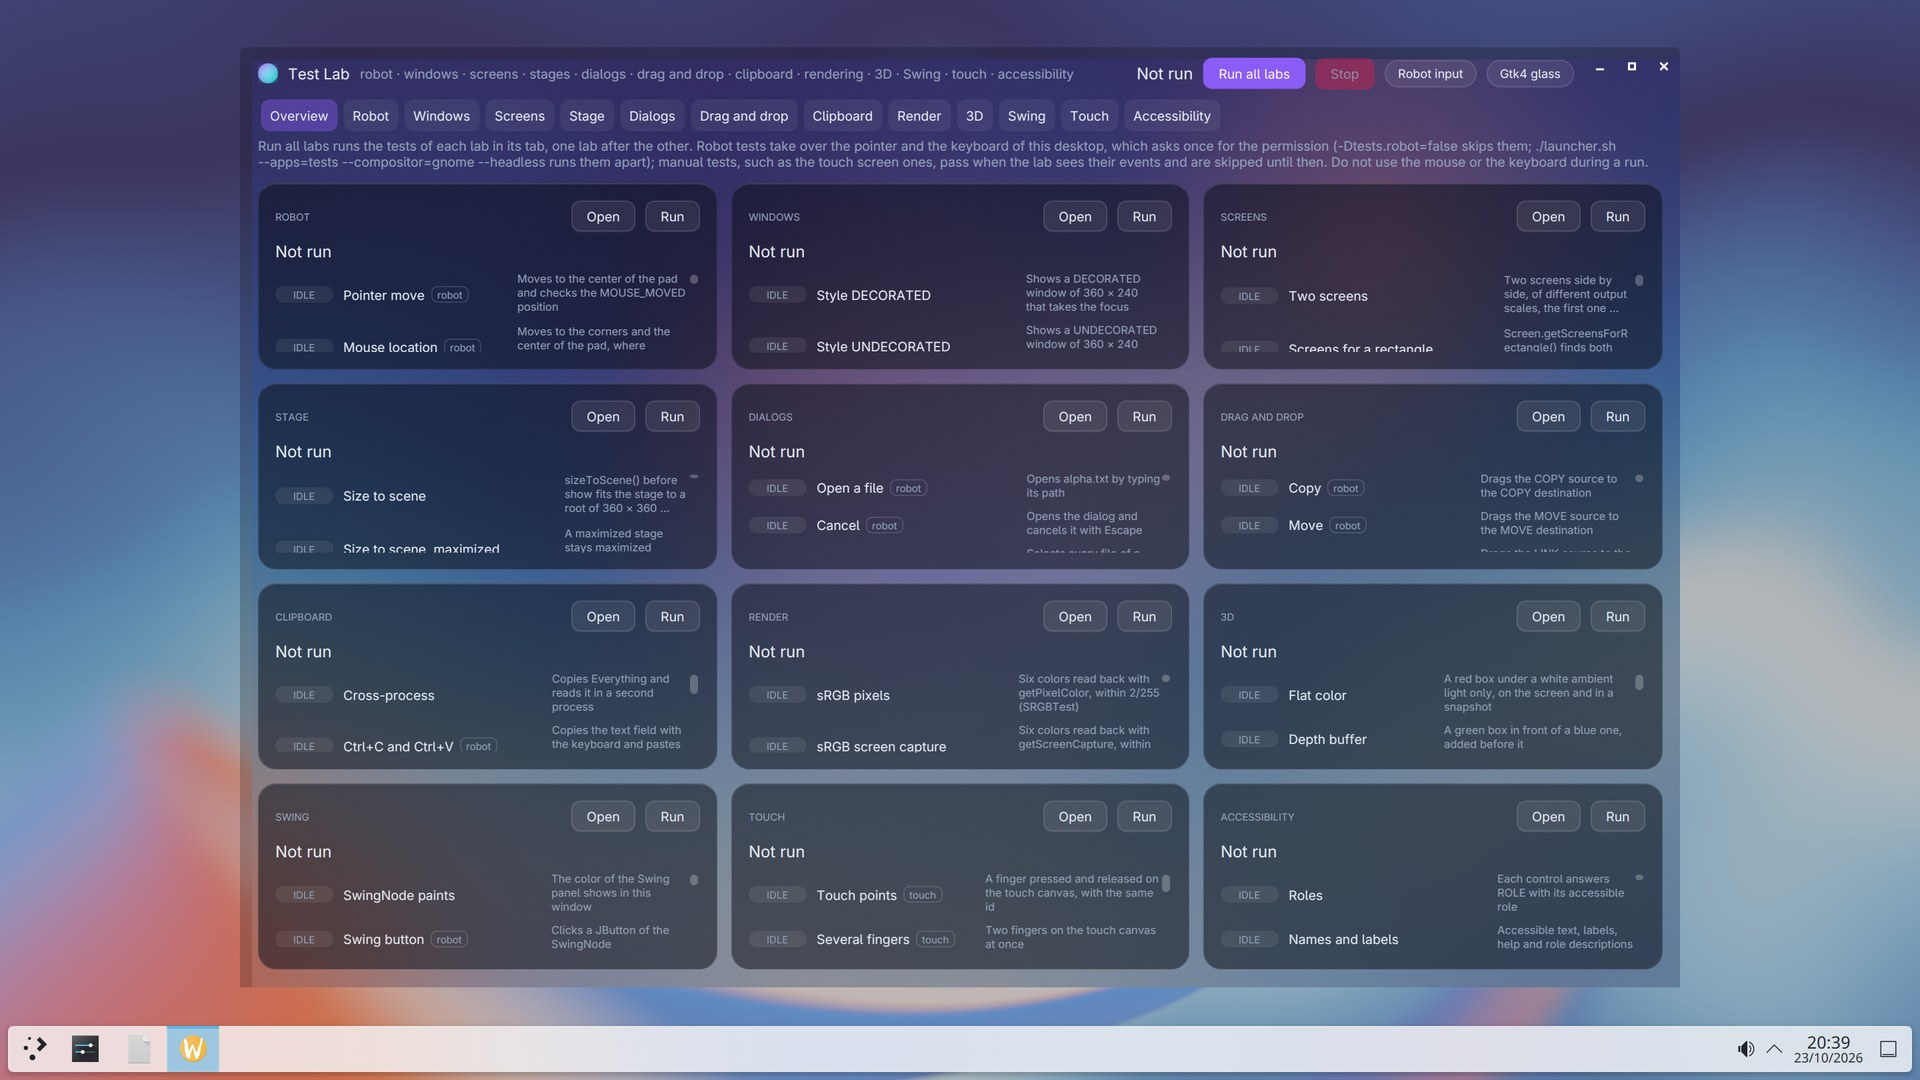
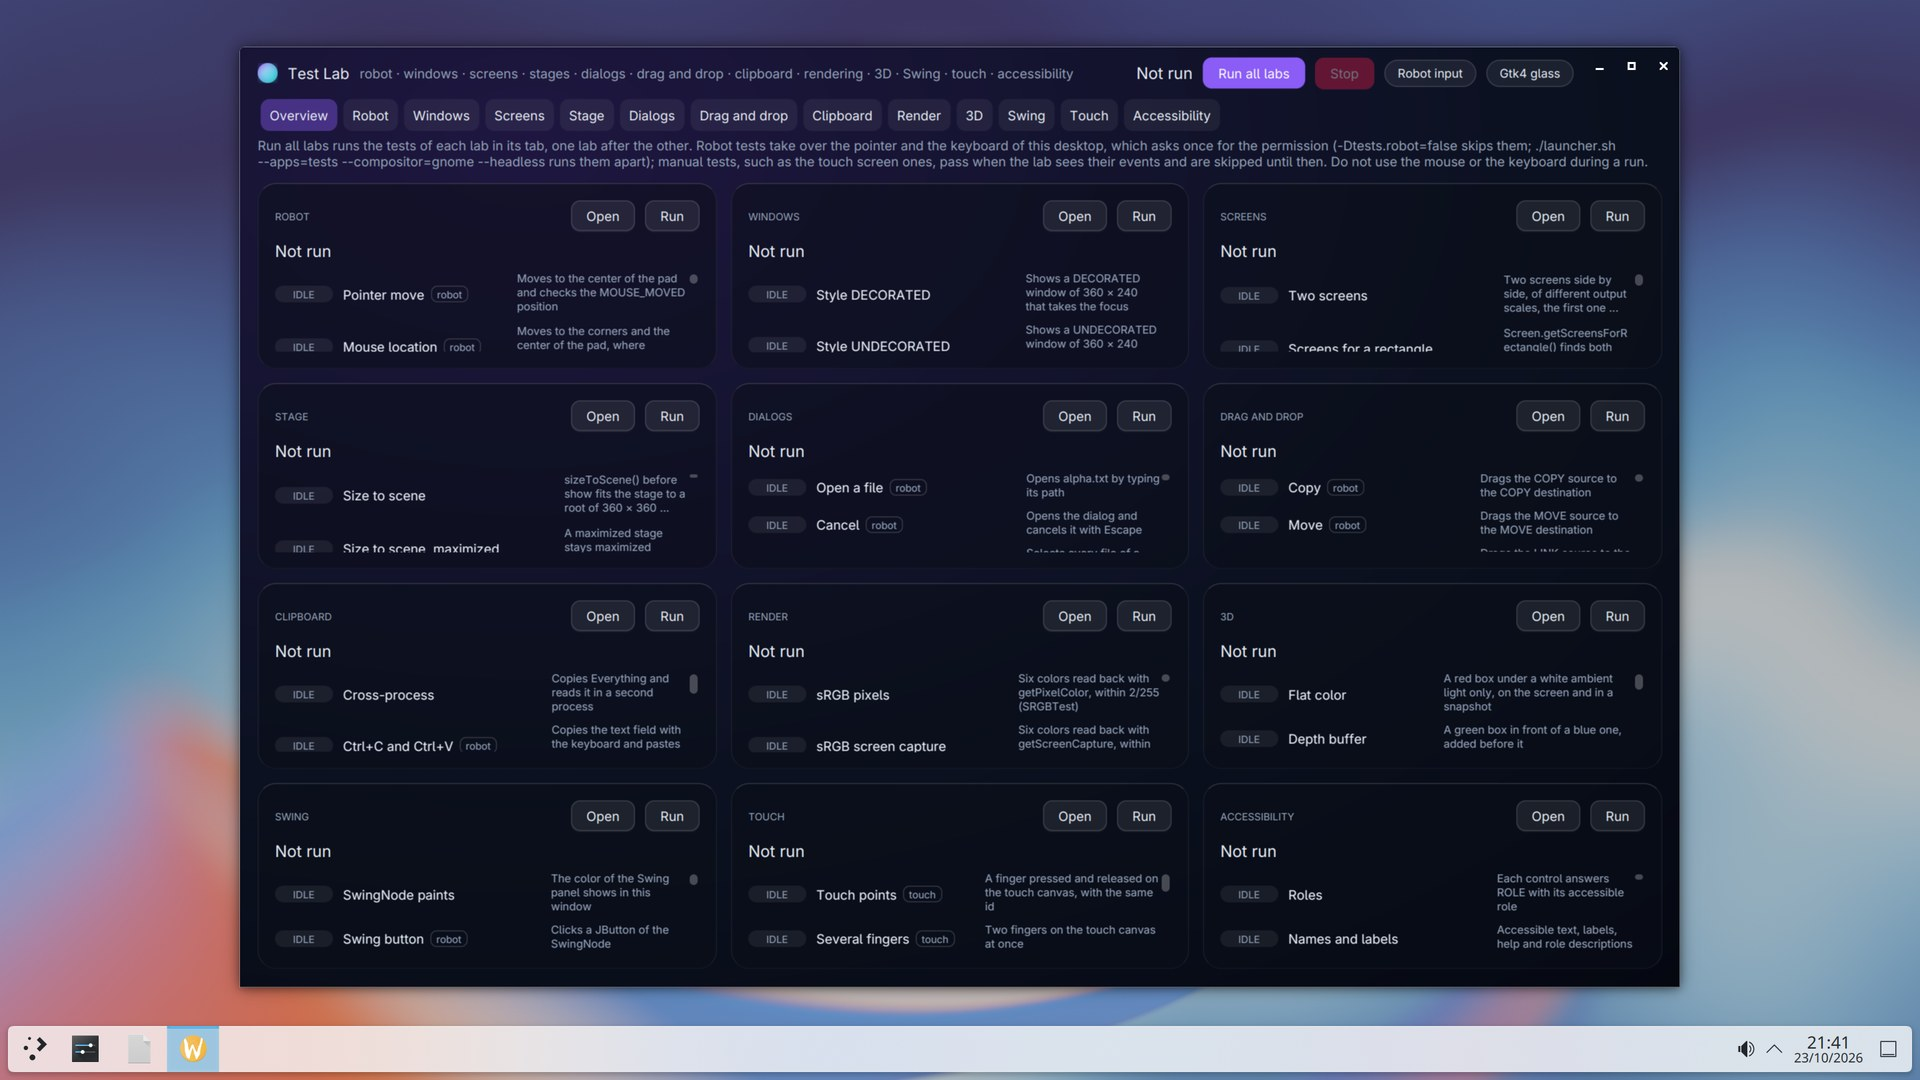
Do not use backdrop on kde tests

diff --git a/src/main/java/com/sun/glass/ui/gtk4/Gtk4Application.java b/src/main/java/com/sun/glass/ui/gtk4/Gtk4Application.java
@@ -73,7 +73,15 @@ public final class Gtk4Application extends Application {
 
     static final boolean ADWAITA = useAdwaita() && AdwWindow.isAvailable();
 
-    static final boolean BACKDROP = Boolean.getBoolean("glass.gtk4.backdrop");
+    /**
+     * KWin offsets the area it blurs behind a client-side decorated window
+     * from the region in surface coordinates that GTK gives it, so there the
+     * backdrop is off unless -Dglass.gtk4.backdrop.kwin=true.
+     */
+    private static final boolean BACKDROP_OFF_ON_KWIN = Boolean.getBoolean("glass.gtk4.backdrop")
+            && isDesktop("KDE") && !Boolean.getBoolean("glass.gtk4.backdrop.kwin");
+
+    static final boolean BACKDROP = Boolean.getBoolean("glass.gtk4.backdrop") && !BACKDROP_OFF_ON_KWIN;
 
     static final float UI_SCALE_OVERRIDE = PrismSettings.allowHiDPIScaling
             ? parseScale("glass.gtk.uiScale") : -1.0f;
@@ -105,8 +113,13 @@ public final class Gtk4Application extends Application {
         if (value != null) {
             return !"false".equals(value);
         }
+        return isDesktop("GNOME");
+    }
+
+    /** Whether XDG_CURRENT_DESKTOP names the desktop. */
+    private static boolean isDesktop(String name) {
         String desktop = System.getenv("XDG_CURRENT_DESKTOP");
-        return desktop != null && Arrays.stream(desktop.split(":")).anyMatch("GNOME"::equalsIgnoreCase);
+        return desktop != null && Arrays.stream(desktop.split(":")).anyMatch(name::equalsIgnoreCase);
     }
 
     private static float parseScale(String name) {
@@ -419,7 +432,10 @@ public final class Gtk4Application extends Application {
 
     private static void publishBackdropState() {
         boolean active = BACKDROP && Gtk4BackgroundEffect.isSupported();
-        if (BACKDROP && !active) {
+        if (BACKDROP_OFF_ON_KWIN) {
+            System.err.println("Gtk4: KWin blurs the wrong area behind the windows, so the window backdrop is"
+                    + " disabled (-Dglass.gtk4.backdrop.kwin=true enables it)");
+        } else if (BACKDROP && !active) {
             System.err.println("Gtk4: the compositor does not support ext-background-effect-v1,"
                     + " so the window backdrop is disabled");
         }

diff --git a/README.md b/README.md
@@ -254,7 +254,10 @@ be removed.
 ![Neon Breakout, made with FXGL](docs/images/games.jpg)
 
 On KDE Plasma (`./launcher.sh --compositor=kde`), the windows are
-`GtkWindow`s with the Breeze theme of GTK instead of libadwaita:
+`GtkWindow`s with the Breeze theme of GTK instead of libadwaita. KWin offsets
+the area it blurs behind the windows from the one GTK gives it, so there the
+backdrop is off (`-Dglass.gtk4.backdrop.kwin=true` turns it on, as the
+launcher does for `eyecandy`):
 
 ![Nebula on KDE Plasma](docs/images/plasma-eyecandy.jpg)
 
